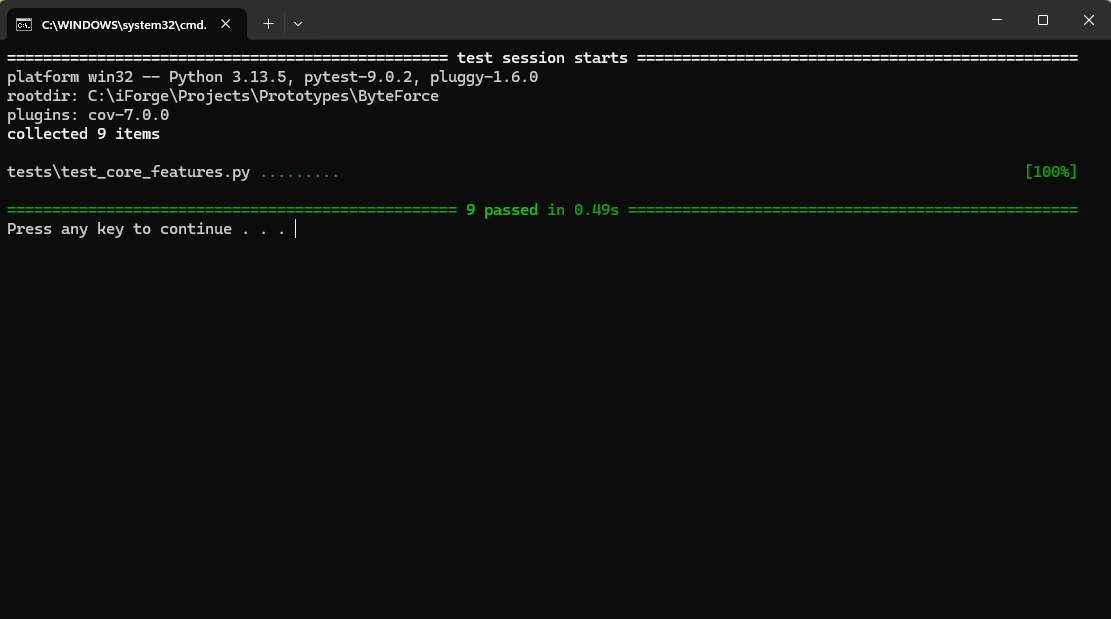
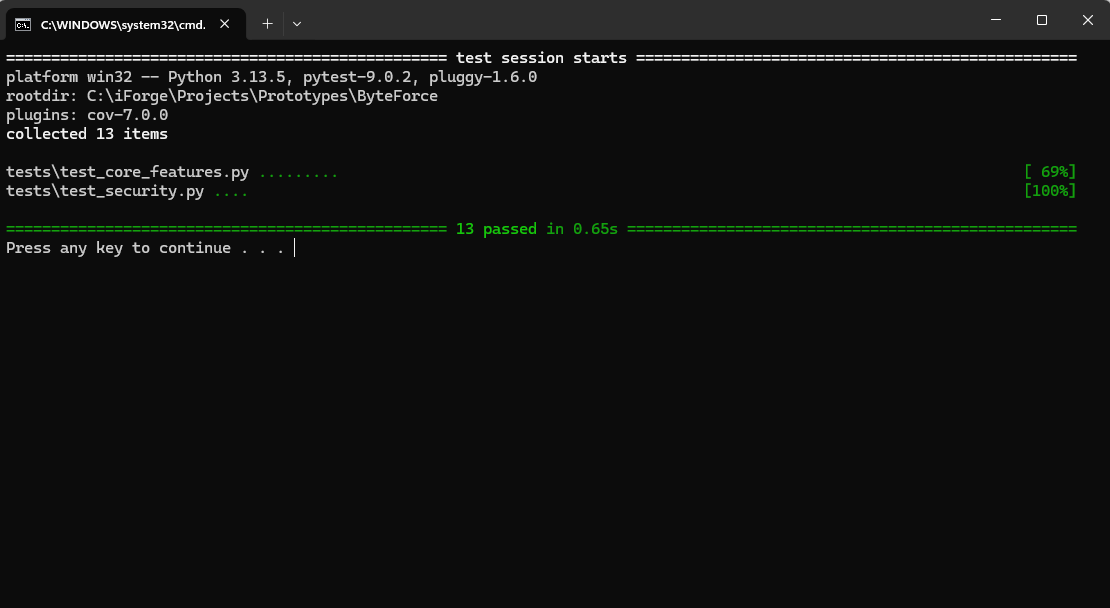
update: test bat file and readme image

Changed region(s): [[0.0, 0.0312, 0.9802, 0.4375]]

diff --git a/README.md b/README.md
@@ -88,7 +88,7 @@ Double-click `test.bat` (Windows) or execute:
 export PYTHONPATH=.  # Linux/Mac
 set PYTHONPATH=.     # Windows CMD
 
-pytest tests/test_core_features.py
+pytest tests/
 ```
 
 ![Test Suite Output](assets/test.png)
